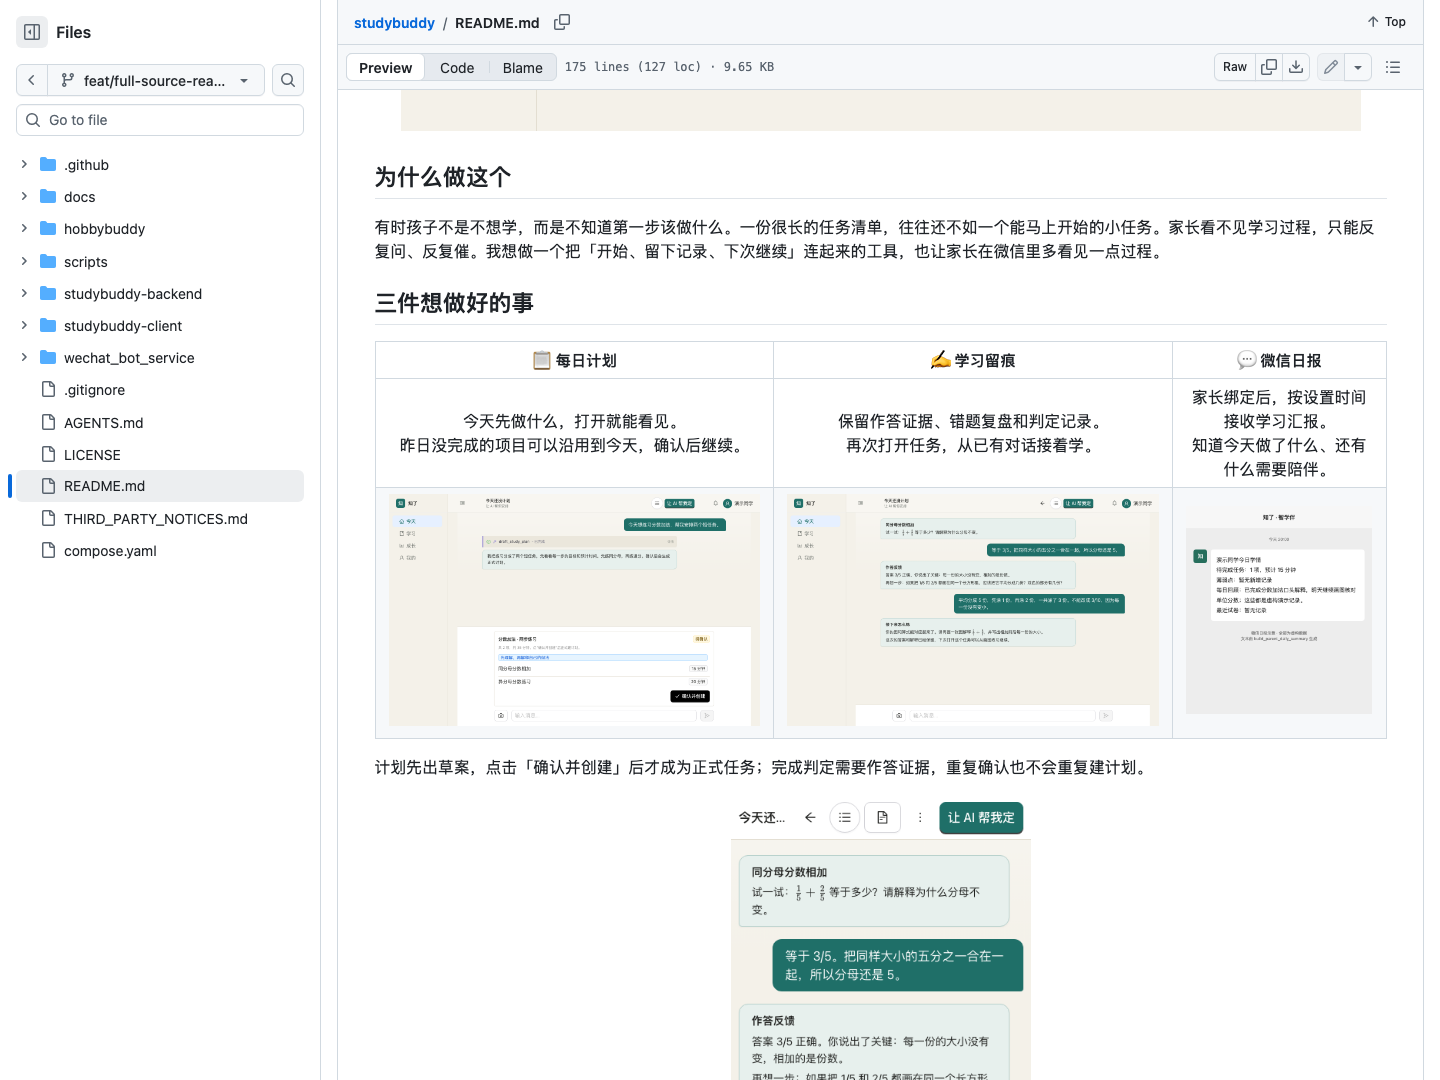
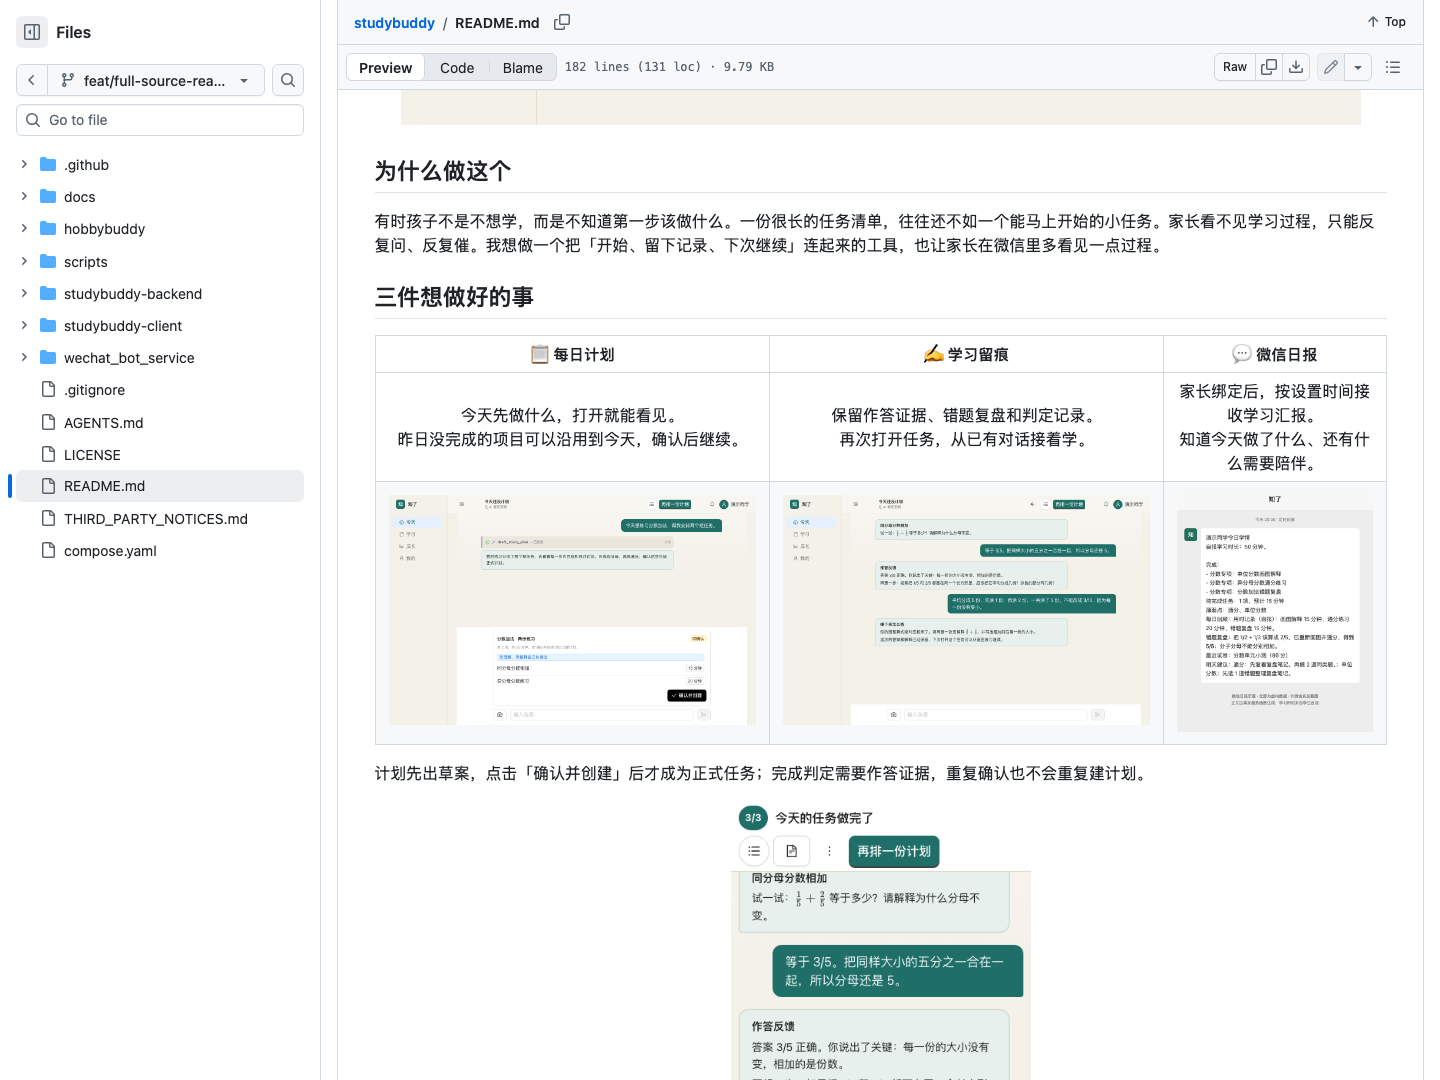
docs: refresh GitHub screenshots and record second-round verification

diff --git a/docs/full-source-verification.md b/docs/full-source-verification.md
@@ -44,3 +44,20 @@ Headless Chromium 149.0.7827.55 实际访问 React → FastAPI → MySQL：
 没有部署、数据迁移、真实模型、真实微信扫码/投递、COS、外部搜索或 OCR 供应商端到端验收。Bot 的扫码状态机、鉴权、恢复、白名单和消息状态由合成适配器测试。修复空内部 token 时先复现 4 failed / 23 passed，再实现校验，最终 27 passed。
 
 已用 headless Chromium 打开 GitHub 分支 README：13 张图片加载成功，三列表格为 3 列，Mermaid iframe 实际生成 SVG 并含 React 节点。首屏、表格和架构图截图见 `docs/images/readme-github*.png`；PR 地址与远端 CI 状态在本地交付记录回读确认。
+
+
+## PR #4 第二轮复验（2026-11-11）
+
+统一产品名为「知了」，README 标题为「知了（StudyBuddy）」；全部已跟踪文件内容与路径的旧中文名检索为 0，仓库描述和 PR 标题也已回读确认。历史文档、清单里的名称统一更新，未重写 Git 历史；清单注明历史路径的命名归一化。
+
+- 后端完整 pytest：**1310 passed, 50 skipped**，435.24 秒；50 项仍全部是未授权的 live 模型用例。新增 7 个用例覆盖真实提问入口、丰富日报、学生归属、未批改/空分数/零分与空态。
+- 相关后端子集：**68 passed**；前端 **52 files / 342 passed**，lint、typecheck、主应用 build 和 build:landing 全部通过。
+- 微信 Bot：**27 passed**；HobbyBuddy 后端：**10 passed**。本轮未改 HobbyBuddy 客户端，沿用首轮构建结果。
+- headless Chromium 再验真实 UI 确认并持久化计划、手机任务刷新、关闭微信时主流程无微信请求、官网 320/768/1024/1440px 无横向溢出，全部通过。
+- 一次性 `mysql:8.4` 实例绑定 `127.0.0.1:33384`，tmpfs 数据目录，只使用 `studybuddy_r2_test` 和 `readme_demo_test`。未使用个人/生产数据库；真实模型调用 **0**。
+- `build_parent_daily_summary` 生成的日报含 3 项完成任务、15/20/15 分钟自报用时、2 个薄弱点、通分错题复盘、86 分最近试卷与明天建议。图片不手写业务正文；虚构说明只出现在气泡外。
+- 表格使用独立日报图，微信章节使用新对话图：家长问「今天学得怎么样」→ `build_guardian_today_learning_summary` 回复 → 晚间日报；入口集成测试禁止调用 Agent，真实查询和回复代码均运行。
+- 已重拍受影响图片及 GitHub 实际渲染：13 张 README 图片加载、三列表格、Mermaid SVG 均正常，旧标题不再出现；限制说明压成 details 内一句。
+- 全工作树 gitleaks：**0 findings**；合成登录 JWT 状态文件已删除，`git diff --check` 通过。原只读仓库的两处未提交文档保持不变。
+
+依旧未做部署、真实微信扫码/投递或真实模型调用。示意图证明确定性代码和虚构记录的展示效果，不证明模型教学效果。
